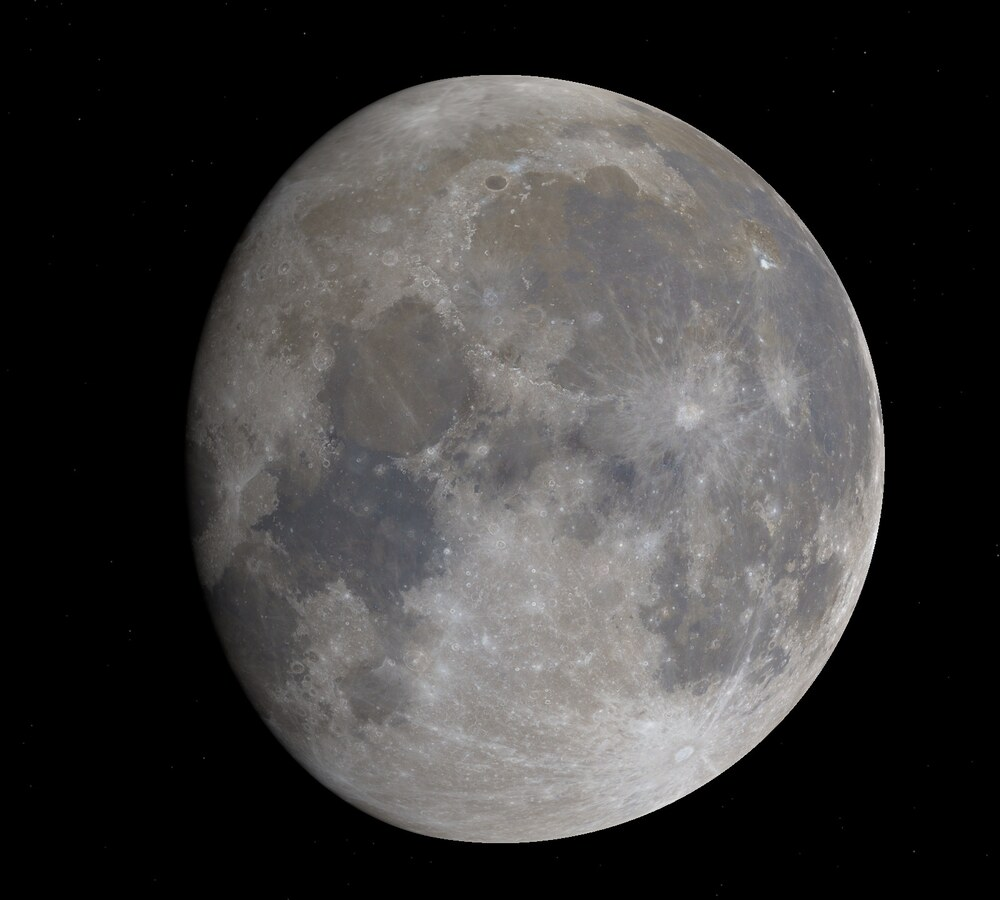
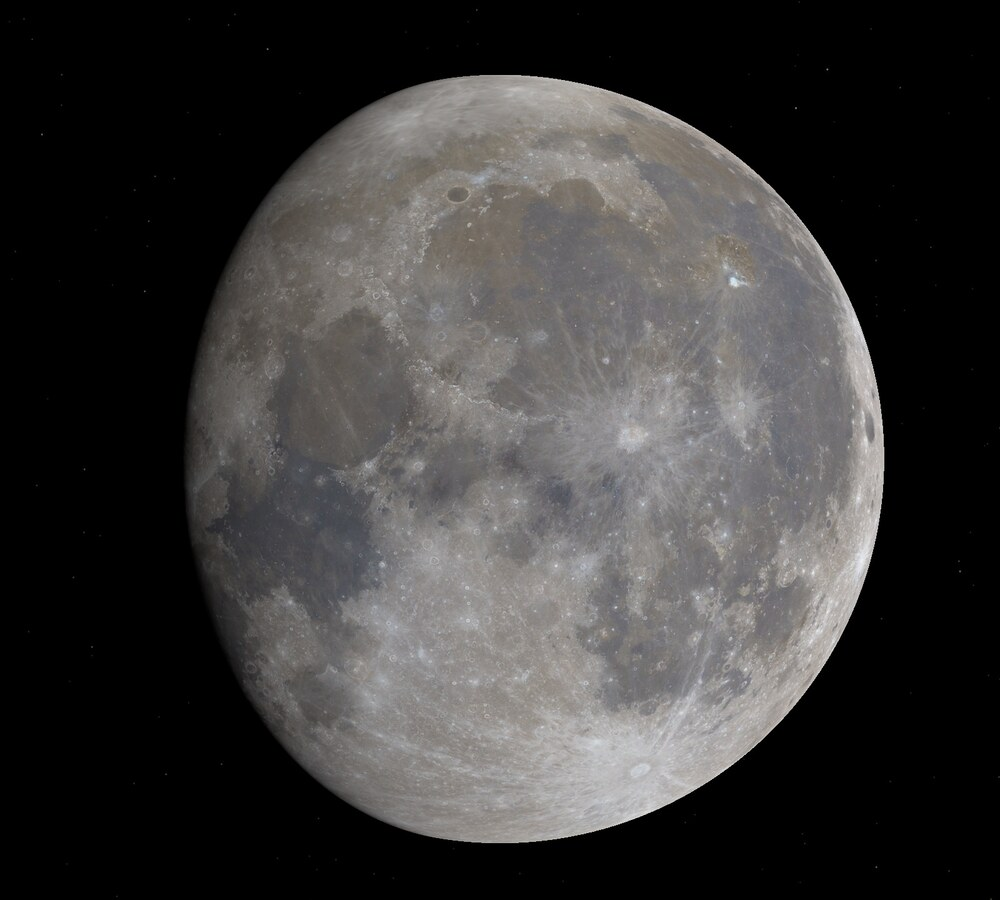
earth-native 1.2.0: refreshed gallery and docs
- Gallery and social card re-rendered with the current renderer (new cloud
  model, half-resolution bloom, 16-step atmosphere).
- DATA.md: VRAM with the 500 m set and static virtual texture; PHYSICS.md:
  the bloom's two resolutions.

Claude-Session: https://claude.ai/code/session_01MS5oEq5RxWpKZoeHGgYAdX

diff --git a/docs/PHYSICS.md b/docs/PHYSICS.md
@@ -173,7 +173,8 @@ a full-frame camera behind an ISS window (`shaders/post.frag`):
   would clip the Moon ~13 stops over into a flat white disc, so the disc is
   compressed as the eye or an HDR merge sees it, with the maria readable, and
   its glare is scaled to match.
-- **Optics:** bloom from the mip pyramid, each level softly compressed above
+- **Optics:** bloom from the mip pyramid (`shaders/bloom.frag`: levels 1-2
+  at half resolution, 3 and up at one eighth), each level softly compressed above
   16× white (a lit limb 2^10 over a night exposure stays a sharp line with a
   small glow instead of a white fog), an analytic veiling-glare point spread
   and an 18-ray diffraction starburst for the Sun and the Moon (with a

diff --git a/docs/DATA.md b/docs/DATA.md
@@ -25,7 +25,7 @@ live weather manifest written by the feed.
 All maps are block-compressed offline with precomputed linear-light mip
 chains (`pipeline/bcn.py`), so the GPU uploads blocks directly: with the
 8K pack the renderer needs about 350 MiB of VRAM (the 500 m set
-below takes ~2 GB). Equirectangular rows are low-passed
+below ~560 MiB with its static virtual texture, ~2 GB without). Equirectangular rows are low-passed
 along longitude by 1/cos(latitude) (`polar_resample`) so the poles do not
 pinwheel.
 
